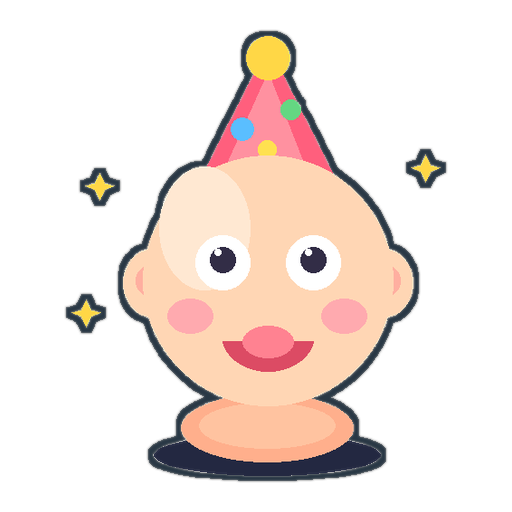
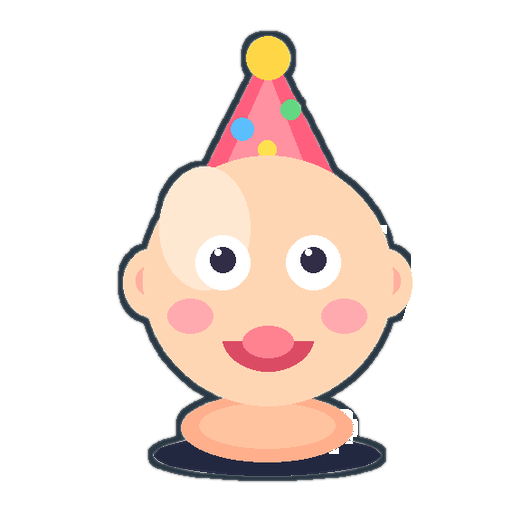
update

diff --git a/tools/remove_surprise_sparkles.py b/tools/remove_surprise_sparkles.py
@@ -1,0 +1,114 @@
+from collections import deque
+from pathlib import Path
+
+import numpy as np
+from PIL import Image
+
+ROOT = Path("assets/game/surprise")
+
+
+def is_yellow(r, g, b, a):
+    return a > 180 and r > 180 and g > 140 and b < 130 and (int(r) + int(g)) > int(b) * 2.5
+
+
+def is_dark(r, g, b, a):
+    return a > 180 and r < 90 and g < 90 and b < 110
+
+
+def connected_components(mask):
+    h, w = mask.shape
+    seen = np.zeros_like(mask, dtype=bool)
+    comps = []
+    for y in range(h):
+        for x in range(w):
+            if not mask[y, x] or seen[y, x]:
+                continue
+            q = deque([(y, x)])
+            seen[y, x] = True
+            cells = []
+            while q:
+                cy, cx = q.popleft()
+                cells.append((cy, cx))
+                for ny, nx in (
+                    (cy - 1, cx),
+                    (cy + 1, cx),
+                    (cy, cx - 1),
+                    (cy, cx + 1),
+                    (cy - 1, cx - 1),
+                    (cy - 1, cx + 1),
+                    (cy + 1, cx - 1),
+                    (cy + 1, cx + 1),
+                ):
+                    if 0 <= ny < h and 0 <= nx < w and mask[ny, nx] and not seen[ny, nx]:
+                        seen[ny, nx] = True
+                        q.append((ny, nx))
+            comps.append(cells)
+    return comps
+
+
+def remove_sparkles(path: Path, keep_center_yellow: bool):
+    im = np.array(Image.open(path).convert("RGBA"))
+    h, w = im.shape[:2]
+    yellow = np.zeros((h, w), dtype=bool)
+    for y in range(h):
+        for x in range(w):
+            r, g, b, a = im[y, x]
+            yellow[y, x] = is_yellow(r, g, b, a)
+
+    comps = connected_components(yellow)
+    print(path.name, "yellow comps", len(comps), [len(c) for c in comps])
+
+    remove = np.zeros((h, w), dtype=bool)
+    cx0, cy0 = w / 2, h / 2
+    for cells in comps:
+        ys = [c[0] for c in cells]
+        xs = [c[1] for c in cells]
+        minx, maxx = min(xs), max(xs)
+        miny, maxy = min(ys), max(ys)
+        bw, bh = maxx - minx + 1, maxy - miny + 1
+        area = len(cells)
+        mx, my = sum(xs) / area, sum(ys) / area
+
+        # Sparkles are small cross-like blobs on the sides.
+        # Keep larger yellow ornaments (hat tip / crown) near top-center.
+        is_side = abs(mx - cx0) > 70
+        is_small = area < 900 and bw < 90 and bh < 90
+        near_top_center = abs(mx - cx0) < 80 and my < h * 0.42
+
+        if keep_center_yellow and near_top_center and not is_side:
+            continue
+        if is_small and is_side:
+            for y, x in cells:
+                remove[y, x] = True
+            # Also clear dark outline touching the sparkle.
+            for y, x in cells:
+                for ny in range(y - 3, y + 4):
+                    for nx in range(x - 3, x + 4):
+                        if 0 <= ny < h and 0 <= nx < w:
+                            r, g, b, a = im[ny, nx]
+                            if is_dark(r, g, b, a):
+                                remove[ny, nx] = True
+
+    # Dilate remove a bit for anti-aliased fringe
+    dilate = remove.copy()
+    ys, xs = np.where(remove)
+    for y, x in zip(ys, xs):
+        for ny in range(y - 1, y + 2):
+            for nx in range(x - 1, x + 2):
+                if 0 <= ny < h and 0 <= nx < w:
+                    r, g, b, a = im[ny, nx]
+                    if a > 0 and (
+                        is_yellow(r, g, b, a)
+                        or is_dark(r, g, b, a)
+                        or (r > 160 and g > 120 and b < 150 and a < 230)
+                    ):
+                        dilate[ny, nx] = True
+
+    out = im.copy()
+    out[dilate] = [0, 0, 0, 0]
+    Image.fromarray(out).save(path)
+    print(" saved", path.name, "removed", int(dilate.sum()), "px")
+
+
+for name in ("happy.png", "surprised.png"):
+    remove_sparkles(ROOT / name, keep_center_yellow=True)

diff --git a/tools/remove_surprise_sparkles2.py b/tools/remove_surprise_sparkles2.py
@@ -1,0 +1,106 @@
+from collections import deque
+from pathlib import Path
+
+import numpy as np
+from PIL import Image
+
+ROOT = Path("assets/game/surprise")
+
+
+def connected_components(mask):
+    h, w = mask.shape
+    seen = np.zeros_like(mask, dtype=bool)
+    comps = []
+    for y in range(h):
+        for x in range(w):
+            if not mask[y, x] or seen[y, x]:
+                continue
+            q = deque([(y, x)])
+            seen[y, x] = True
+            cells = []
+            while q:
+                cy, cx = q.popleft()
+                cells.append((cy, cx))
+                for ny, nx in (
+                    (cy - 1, cx),
+                    (cy + 1, cx),
+                    (cy, cx - 1),
+                    (cy, cx + 1),
+                    (cy - 1, cx - 1),
+                    (cy - 1, cx + 1),
+                    (cy + 1, cx - 1),
+                    (cy + 1, cx + 1),
+                ):
+                    if 0 <= ny < h and 0 <= nx < w and mask[ny, nx] and not seen[ny, nx]:
+                        seen[ny, nx] = True
+                        q.append((ny, nx))
+            comps.append(cells)
+    return comps
+
+
+def clear_side_marks(path: Path):
+    im = np.array(Image.open(path).convert("RGBA"))
+    h, w = im.shape[:2]
+    r, g, b, a = im[:, :, 0], im[:, :, 1], im[:, :, 2], im[:, :, 3]
+
+    # Remaining sparkle outlines: dark or near-black opaque pixels off the face.
+    dark = (a > 160) & (r < 100) & (g < 100) & (b < 120)
+    # Also catch pale outline fringes left after yellow removal
+    fringe = (a > 40) & (a < 230) & (r > 140) & (g > 100) & (b < 160)
+    # And pure black leftovers
+    blackish = (a > 160) & (r < 40) & (g < 40) & (b < 50)
+
+    candidate = dark | fringe | blackish
+
+    # Only consider pixels away from the main head (central blob).
+    # Rough head disk.
+    yy, xx = np.ogrid[:h, :w]
+    cx, cy = w / 2, h * 0.52
+    dist = np.sqrt((xx - cx) ** 2 + (yy - cy) ** 2)
+    outside_head = dist > 155
+
+    mask = candidate & outside_head
+    comps = connected_components(mask)
+    print(path.name, "side comps", [(len(c),) for c in comps if len(c) > 20])
+
+    remove = np.zeros((h, w), dtype=bool)
+    for cells in comps:
+        area = len(cells)
+        if area < 25 or area > 2500:
+            continue
+        ys = [c[0] for c in cells]
+        xs = [c[1] for c in cells]
+        mx = sum(xs) / area
+        my = sum(ys) / area
+        bw = max(xs) - min(xs) + 1
+        bh = max(ys) - min(ys) + 1
+        # Sparkle leftovers: compact, on the sides of the head.
+        if abs(mx - cx) < 90:
+            continue
+        if bw > 100 or bh > 100:
+            continue
+        if my < 40 or my > h - 40:
+            continue
+        for y, x in cells:
+            remove[y, x] = True
+            for ny in range(y - 2, y + 3):
+                for nx in range(x - 2, x + 3):
+                    if 0 <= ny < h and 0 <= nx < w and outside_head[ny, nx]:
+                        aa = im[ny, nx, 3]
+                        if aa > 0:
+                            rr, gg, bb = im[ny, nx, :3]
+                            if (
+                                (rr < 120 and gg < 120 and bb < 140)
+                                or (rr > 140 and gg > 100 and bb < 170)
+                                or aa < 200
+                            ):
+                                remove[ny, nx] = True
+
+    out = im.copy()
+    out[remove] = [0, 0, 0, 0]
+    Image.fromarray(out).save(path)
+    print(" cleared", int(remove.sum()), "px")
+
+
+for name in ("happy.png", "surprised.png"):
+    clear_side_marks(ROOT / name)

diff --git a/tools/remove_surprise_floaters.py b/tools/remove_surprise_floaters.py
@@ -1,0 +1,63 @@
+from collections import deque
+from pathlib import Path
+
+import numpy as np
+from PIL import Image, ImageFilter
+
+ROOT = Path("assets/game/surprise")
+
+
+def largest_opaque_component(alpha, threshold=40):
+    h, w = alpha.shape
+    mask = alpha > threshold
+    seen = np.zeros_like(mask, dtype=bool)
+    best = []
+    for y in range(h):
+        for x in range(w):
+            if not mask[y, x] or seen[y, x]:
+                continue
+            q = deque([(y, x)])
+            seen[y, x] = True
+            cells = []
+            while q:
+                cy, cx = q.popleft()
+                cells.append((cy, cx))
+                for ny, nx in (
+                    (cy - 1, cx),
+                    (cy + 1, cx),
+                    (cy, cx - 1),
+                    (cy, cx + 1),
+                ):
+                    if 0 <= ny < h and 0 <= nx < w and mask[ny, nx] and not seen[ny, nx]:
+                        seen[ny, nx] = True
+                        q.append((ny, nx))
+            if len(cells) > len(best):
+                best = cells
+    keep = np.zeros_like(mask, dtype=bool)
+    for y, x in best:
+        keep[y, x] = True
+    return keep
+
+
+def keep_main_character(path: Path, dilate: int = 2):
+    im = Image.open(path).convert("RGBA")
+    arr = np.array(im)
+    alpha = arr[:, :, 3]
+    keep = largest_opaque_component(alpha)
+    print(path.name, "main pixels", int(keep.sum()))
+
+    # Dilate keep mask so soft edges of the character remain.
+    keep_img = Image.fromarray((keep.astype(np.uint8) * 255))
+    for _ in range(dilate):
+        keep_img = keep_img.filter(ImageFilter.MaxFilter(3))
+    keep = np.array(keep_img) > 0
+
+    out = arr.copy()
+    out[~keep] = [0, 0, 0, 0]
+    Image.fromarray(out).save(path)
+    print(" kept", int(keep.sum()), "cleared floaters")
+
+
+# Re-copy originals? We already damaged yellow. Main character should still be intact.
+for name in ("happy.png", "surprised.png"):
+    keep_main_character(ROOT / name, dilate=3)
